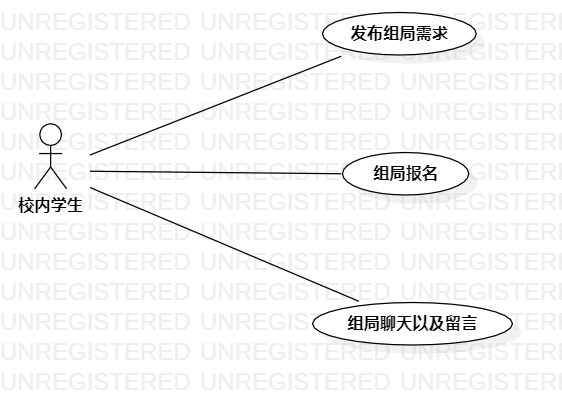
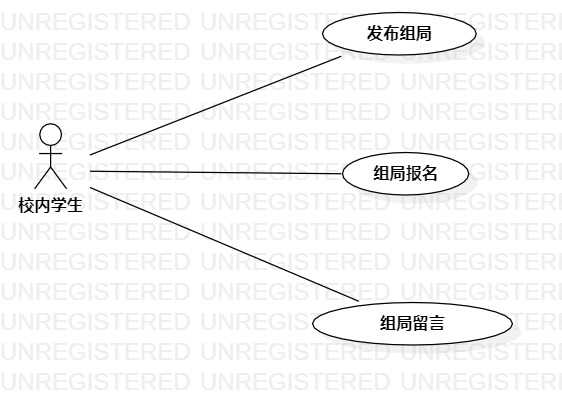
更改Lab2、3、4&5，编写Lab6

Changed region(s): [[0.605, 0.7899, 0.847, 0.8506], [0.605, 0.0608, 0.8167, 0.1215]]

diff --git a/students/1714080902341/Lab2.md b/students/1714080902341/Lab2.md
@@ -26,16 +26,16 @@
 
 ## 4.实验结果
 
-![](https://jckcoenf.oss-cn-beijing.aliyuncs.com/Lab2_UseCaseDiagram.jpg)
+![](./Lab2_UseCaseDiagram.jpg)
 
 图1：组局系统的用例图
 
 
 
-## 表1：发布组局需求用例规约
+## 表1：发布组局用例规约
 用例编号  | UC01 | 备注  
 :--|--|-  
-用例名称  | 发布组局需求 |   
+用例名称  | 发布组局 |   
 前置条件  | 学生进入组局系统 | *可选*   
 后置条件  | 学生成功发布组局需求 | *可选*   
 基本流程  | 1. 学生点击新建组局按钮； |*用例执行成功的步骤*    
@@ -55,24 +55,24 @@
 后置条件  | 学生成功组局 | *可选*   
 基本流程  | 1. 学生点击已存在的组局信息 |*用例执行成功的步骤*    
 ~| 2. 系统显示组局信息页面； |   
-~| 3. 学生点击报名按钮； |   
+~| 3. 学生点击报名按钮并填写个人信息； |   
 ~| 4. 系统检查组局人数未满，将学生添加入组局人员； |   
 ~| 5. 系统显示报名成功页面。 |  
 扩展流程  | 4.1 系统检查发现组局人数已满，不可报名。 |*用例执行失败*    
  | 5.1 系统显示报名失败页面。 | 
 
-## 表3：组局聊天及留言规约
+## 表3：组局留言规约
 
 用例编号  | UC03 | 备注  
 :--|:-|-  
-用例名称  | 组局聊天及留言 |   
+用例名称  | 组局留言 |   
 前置条件  | 学生进入组局系统，且组局系统内已存在组局 | *可选*   
 后置条件  |  | *可选*   
 基本流程  | 1. 学生点击已存在的组局； |*用例执行成功的步骤*    
 ~| 2. 系统显示组局信息页面； |   
 ~| 3. 学生编写评论询问组局相关信息，点击评论按钮； |   
-~| 4. 系统检查评论字数符合字数要求，保存学生发布的评论信息； |   
-~| 5. 系统显示评论成功页面，将评论信息发往发布组局的学生。 |  
+~| 4. 系统检查评论字数符合字数要求，保存学生发布的留言信息； |   
+~| 5. 系统显示评论成功页面，将留言信息发往发布组局的学生。 |  
 扩展流程| 4.1 系统检查评论字数超过限制，不保存学生发布的评论信息。 | *用例执行失败* 
 
 

diff --git a/students/1714080902341/lab6.md b/students/1714080902341/lab6.md
@@ -1,0 +1,43 @@
+# 实验六：交互建模
+
+## 实验目标
+
+1. 理解系统交互；
+2. 掌握UML顺序图的画法；
+3. 掌握对象交互的定义与建模方法。
+
+## 实验内容
+
+1. 根据用例模型和类模型，确定功能所涉及的系统对象
+2. 在顺序图上画出参与者（对象）；
+3. 在顺序图上画出消息（交互）。
+
+## 实验步骤
+
+1. 观看视频，了解相关概念；
+2. 打开starUML，新建顺序图：
+   * 根据用例图以及类图，确定参与者并添加消息
+   
+   * 考虑用例图和类图中一些不合理的地方，重新进行改写：
+   
+     具体如下：
+   
+     1. Lab2更改用例名称及部分用例规约流程，使其更加简练、合理。
+     2. 根据更改后的Lab2改正相应Lab3的用例规约的活动图。
+     3. Lab4更改类图，使其更加简练。
+   
+3. 导出UML图片并编写实验报告。
+
+## 实验结果
+
+![](./Lab6_SequenceDiagram1.jpg)
+
+图1：发布组局顺序图
+
+![](./Lab6_SequenceDiagram2.jpg)
+
+图2：组局报名顺序图
+
+![](./Lab6_SequenceDiagram3.jpg)
+
+图3：组局留言顺序图

diff --git a/students/1714080902341/Lab4.md b/students/1714080902341/Lab4.md
@@ -30,14 +30,14 @@
 
 ## 实验结果
 
-![](./Lab4_ClassDiagram1.jpg)
+![](./Lab4_ClassDiagram1.png)
 
-图1.发布组局需求类图
+图1.发布组局类图
 
-![](./Lab4_ClassDiagram2.jpg)
+![](./Lab4_ClassDiagram2.png)
 
 图2.组局报名类图
 
-![](./Lab4_ClassDiagram3.jpg)
+![](./Lab4_ClassDiagram3.png)
 
-图3.组局聊天及留言类图
+图3.组局留言类图

diff --git a/students/1714080902341/Lab3.md b/students/1714080902341/Lab3.md
@@ -33,12 +33,12 @@
 
 ### 发布组局需求用例规约activity图
 
-![](./Lab3_ActivityDiagram1.jpg)
+![](./Lab3_ActivityDiagram1.png)
 
 ### 组局报名用例规约activity图
 
-![](./Lab3_ActivityDiagram2.jpg)
+![](./Lab3_ActivityDiagram2.png)
 
 ### 组局聊天及留言规约activity图
 
-![](./Lab3_ActivityDiagram3.jpg)
+![](./Lab3_ActivityDiagram3.png)
